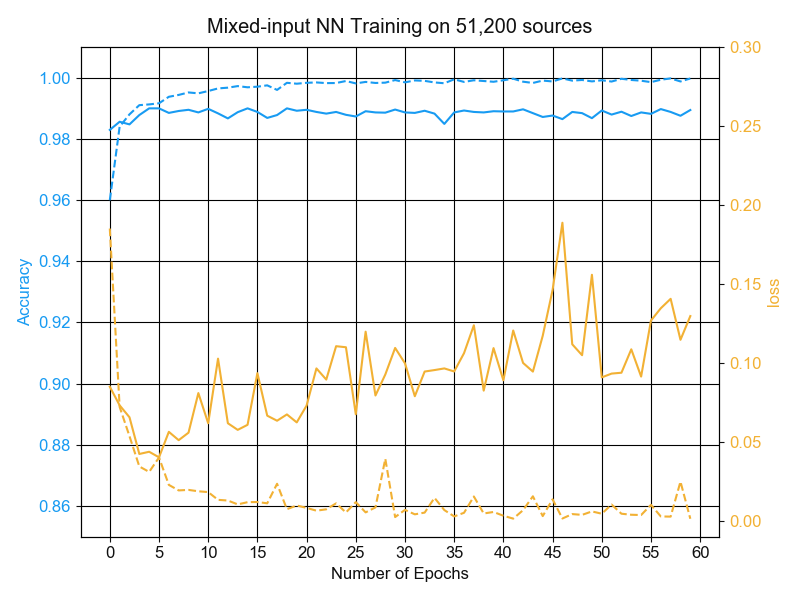
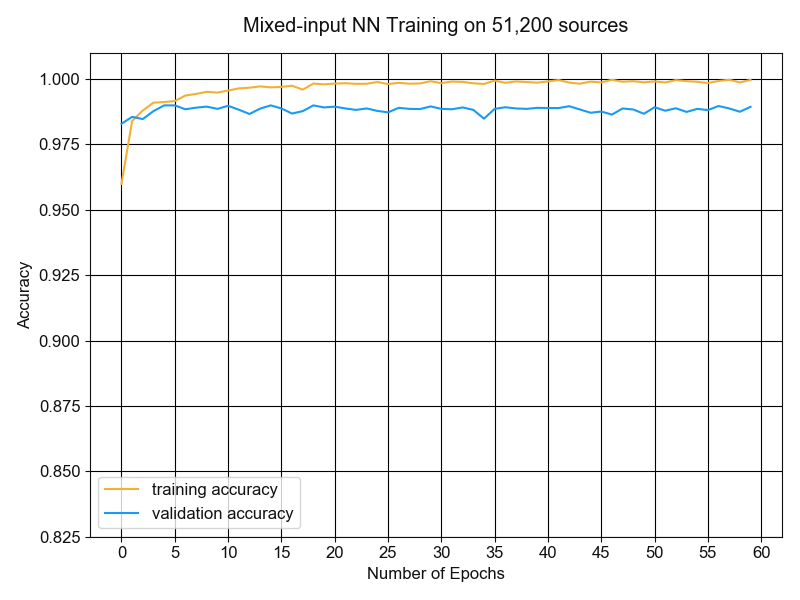
(cnn): changed plotting for hypertuning results

diff --git a/spectral_analysis/classifiers/neural_network/helper_functions.py b/spectral_analysis/classifiers/neural_network/helper_functions.py
@@ -22,8 +22,8 @@ from tensorflow.keras.layers import Dense, Activation, Input, concatenate
 from tensorflow.keras.models import Sequential, Model
 from tensorflow.keras.utils import to_categorical
 
-from spectral_analysis.spectral_analysis.plotify import Plotify
-from spectral_analysis.spectral_analysis.data_preprocessing.bpt_diagram import plot_bpt_diagram
+from spectral_analysis.plotify import Plotify
+from spectral_analysis.data_preprocessing.bpt_diagram import plot_bpt_diagram
 
 
 
@@ -236,30 +236,32 @@ def main():
     fig, ax = plotify.get_figax()
 
     
-    ax.plot(xs, train, color=plotify.c_orange, label='training loss')
-    ax.plot(xs, validation, color=plotify.c_blue, label='validation loss')
+    ax.plot(xs, train, color=plotify.c_orange, label='training accuracy')
+    ax.plot(xs, validation, color=plotify.c_blue, label='validation accuracy')
     ax.set_xlabel('Number of Epochs')
-    ax.set_ylabel('accuracy')
-    ax.tick_params(axis='y', labelcolor=plotify.c_blue)
+    ax.set_ylabel('Accuracy')
     ax.xaxis.set_major_locator(ticker.MultipleLocator(5))
-    ax.set_ylim(0.88,1.01)
+    ax.set_ylim(0.825,1.01)
     plt.legend()
-    ax.set_title('Mixed-input NN Training on 51,200 sources', pad=10)
+    ax.set_title('Mixed-input NN Training on 51,200 sources')
+    ttl = ax.title
+    ttl.set_position([0.5, 1.025])
     fig.tight_layout()
     plt.savefig('plots/training_accuracies')
     plt.show()
 
     fig, ax = plotify.get_figax()
-    ax = ax.twinx()
-    ax.set_ylabel('loss', color=plotify.c_orange)  # we already handled the x-label with ax1
+    ax.set_ylabel('Loss')  # we already handled the x-label with ax1
     ax.plot(xs, train_loss, color=plotify.c_orange, label='training loss')
     ax.plot(xs, validation_loss, color=plotify.c_blue, label='validation loss')
     ax.xaxis.set_major_locator(ticker.MultipleLocator(5))
-    # ax.set_ylim(-0.01,0.3)
-    
-    ax.set_title('Mixed-input NN Training on 51,200 sources', pad=10)
+    ax.set_ylim(-0.01,0.4)
+    ax.set_xlabel('Number of Epochs')
+    ax.set_title('Mixed-input NN Training on 51,200 sources')
+    ttl = ax.title
+    ttl.set_position([0.5, 1.025])
+    plt.tight_layout()
     plt.legend()
-    fig.tight_layout()
 
     plt.title('Mixed-input NN Training on 51,200 sources')
     plt.savefig('plots/training_losses')

diff --git a/spectral_analysis/data_preprocessing/__init__.py b/spectral_analysis/data_preprocessing/__init__.py
@@ -4,7 +4,7 @@ import numpy as np
 import matplotlib.pyplot as plt
 
 
-from spectral_analysis.spectral_analysis.data_preprocessing.data_preprocessing import (filter_sources,
+from spectral_analysis.data_preprocessing.data_preprocessing import (filter_sources,
                                                                     spectrum_cutoff,
                                                                     create_continuum,
                                                                     merge_lines_and_continuum,
@@ -12,8 +12,8 @@ from spectral_analysis.spectral_analysis.data_preprocessing.data_preprocessing i
                                                                     merge_spectral_lines_with_hdf5_data,
                                                                     convert_byte_classes)
 
-from spectral_analysis.spectral_analysis.data_preprocessing.merge_tables import merge_with_metatable
-from spectral_analysis.spectral_analysis.data_preprocessing.get_spectrallines import get_spectrallines
+from spectral_analysis.data_preprocessing.merge_tables import merge_with_metatable
+from spectral_analysis.data_preprocessing.get_spectrallines import get_spectrallines
 
 # 4) Filter Out Spectra with not enough values ---------------------------- #
 # 5) Cut off values from the sides to have the same range for all spectra - #

diff --git a/spectral_analysis/classifiers/neural_network/mixed_input.py b/spectral_analysis/classifiers/neural_network/mixed_input.py
@@ -20,9 +20,9 @@ from tensorflow.keras.layers import Dense, Dropout, Activation, Flatten, Conv1D,
 from tensorflow.keras.models import Sequential, Model
 from tensorflow.keras.utils import to_categorical
 
-from spectral_analysis.spectral_analysis.data_preprocessing.data_preprocessing import remove_bytes_from_class, get_fluxes_from_h5, get_joint_classes, apply_gaussian_filter
-from spectral_analysis.spectral_analysis.plotify import Plotify
-from spectral_analysis.spectral_analysis.classifiers.neural_network.helper_functions import train_test_split, evaluate_model, shuffle_in_unison, get_incorrect_predictions
+from spectral_analysis.data_preprocessing.data_preprocessing import remove_bytes_from_class, get_fluxes_from_h5, get_joint_classes, apply_gaussian_filter
+from spectral_analysis.plotify import Plotify
+from spectral_analysis.classifiers.neural_network.helper_functions import train_test_split, evaluate_model, shuffle_in_unison, get_incorrect_predictions
 
 class MixedInputModel():
     def __init__(self, mainclass='NONE', spectral_lines=False, df_wavelengths=None, gaussian=False, epochs=2, load_model=False, model_path=None):

diff --git a/spectral_analysis/classifiers/neural_network/cnn.py b/spectral_analysis/classifiers/neural_network/cnn.py
@@ -69,7 +69,7 @@ class CNN:
                      verbose=0,
                      validation_data=(X_val, y_val),
                      callbacks=[EarlyStopping('val_accuracy', patience=4)])
-        
+        print('Kakkanat\n\n\n\n\n\n Kakkanat')
         print(tuner.results_summary())
         model = tuner.get_best_models(num_models=1)[0]
         print(model.summary())
@@ -83,7 +83,7 @@ class CNN:
         hyperparameters = {
             'n_conv_layers': hp.Int('n_conv_layers', 2, 8),
             'input_conv_layer_filters': hp.Choice('input_conv_layer_filters', values=[32, 64, 128, 256, 512], default=256),
-            'input_conv_layer_kernel_size': hp.Choice('input_conv_layer_kernel_size', values=[3, 5, 7]),
+            'input_conv_layer_kernel_size': hp.Choice('input_conv_layer_kernel_size', values=[3, 5, 7, 9]),
             'n_dense_layers': hp.Int('n_dense_layers', 2, 8),
             'learning_rate': hp.Choice('learning_rate', values=[1e-2, 1e-3, 1e-4])
         }

diff --git a/spectral_analysis/data_preprocessing/data_preprocessing.py b/spectral_analysis/data_preprocessing/data_preprocessing.py
@@ -9,7 +9,7 @@ from tqdm.auto import tqdm
 from skimage import io, filters, feature
 from scipy import ndimage, interpolate
 
-from spectral_analysis.spectral_analysis.plotify import Plotify
+from spectral_analysis.plotify import Plotify
 
 import pathlib
 import os

diff --git a/spectral_analysis/data_preprocessing/bpt_diagram.py b/spectral_analysis/data_preprocessing/bpt_diagram.py
@@ -1,6 +1,6 @@
 import numpy as np
 import pandas as pd
-from spectral_analysis.spectral_analysis.plotify import Plotify
+from spectral_analysis.plotify import Plotify
 import matplotlib.pyplot as plt
 
 def plot_bpt_diagram(df_source_info, labels, y_pred, y_test):
